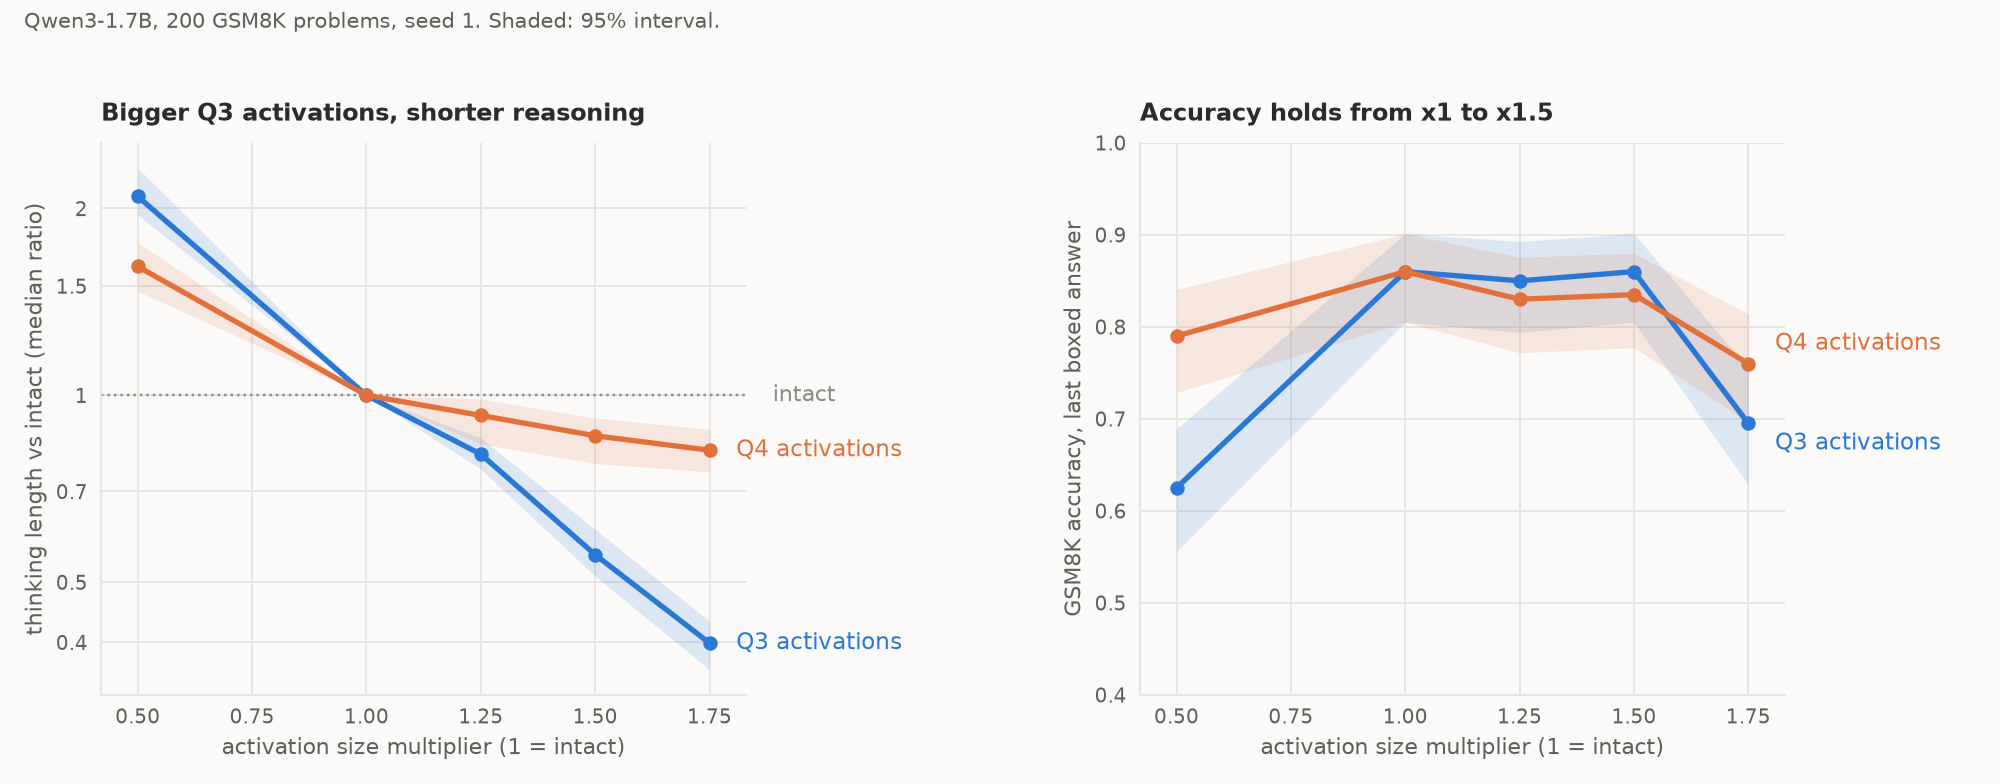
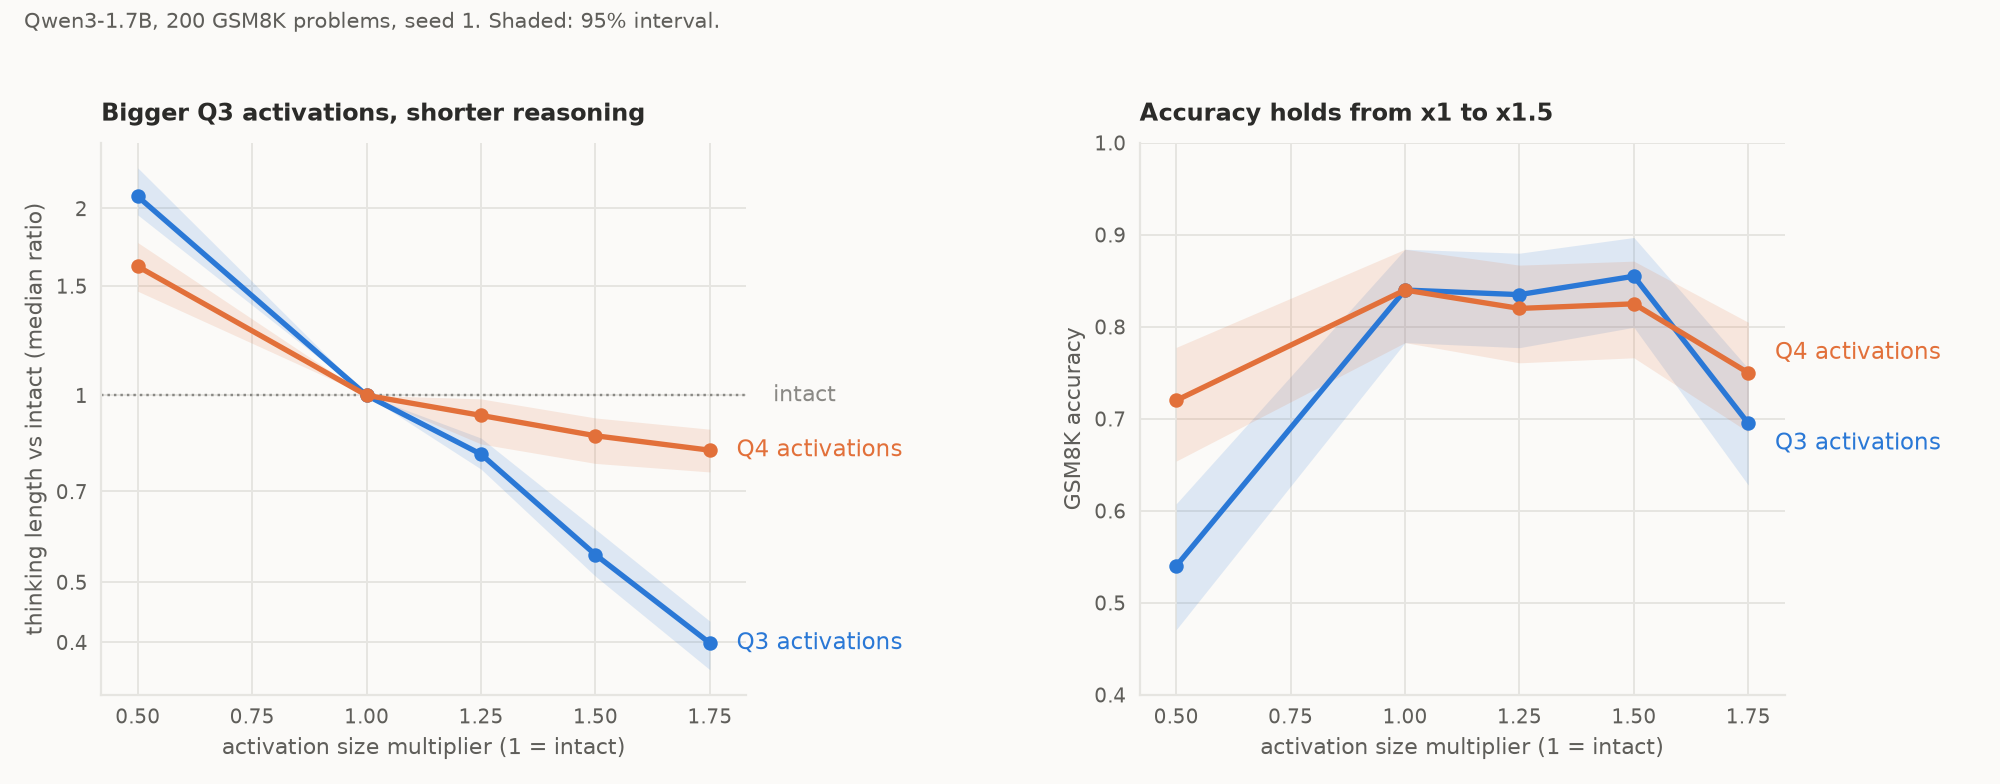
Revert "Figures 7 and 8: score accuracy on the last boxed answer anywhere in the output"
This reverts commit 6990c112237c8045482cbdf9a62eaa1595513cea.

diff --git a/src/figures/fig_ablation.py b/src/figures/fig_ablation.py
@@ -20,7 +20,6 @@ import matplotlib.pyplot as plt
 
 sys.path.insert(0, str(Path(__file__).resolve().parent))
 import style  # noqa: E402
-from scoring import last_boxed_correct  # noqa: E402
 
 style.apply()
 folder = Path(sys.argv[1] if len(sys.argv) > 1 else "results/q3__Qwen__Qwen3-1.7B")
@@ -57,7 +56,7 @@ fig, (a1, a2, a3) = plt.subplots(1, 3, figsize=(15.5, 5.4), gridspec_kw={"width_
 for gi, (xlabel, fill, seed) in enumerate(EDITS):
     base = load(f"none__seed{seed}")
     ids = sorted(base)
-    k = sum(last_boxed_correct(base[i]) for i in ids); lo, hi = wilson(k, len(ids))
+    k = sum(base[i]["correct"] for i in ids); lo, hi = wilson(k, len(ids))
     errbar(a2, gi - 0.3, k / len(ids), lo, hi, style.INTACT_COL)
     for quad, colour, _, dx in QUADS:
         run = load(f"{quad}_{fill}__seed{seed}")
@@ -69,12 +68,12 @@ for gi, (xlabel, fill, seed) in enumerate(EDITS):
         errbar(a1, gi + dx, med, rlo, rhi, colour)
         a1.annotate(f"×{med:.2f}", (gi + dx, rhi), xytext=(0, 7), textcoords="offset points",
                     ha="center", fontsize=9, color=style.INK2)
-        kk = sum(last_boxed_correct(run[i]) for i in ids); alo, ahi = wilson(kk, len(ids))
+        kk = sum(run[i]["correct"] for i in ids); alo, ahi = wilson(kk, len(ids))
         errbar(a2, gi + dx * 0.9 + 0.08, kk / len(ids), alo, ahi, colour)
-        lost = sum(last_boxed_correct(base[i]) and not last_boxed_correct(run[i]) for i in ids)
-        gained = sum(last_boxed_correct(run[i]) and not last_boxed_correct(base[i]) for i in ids)
+        lost = sum(base[i]["correct"] and not run[i]["correct"] for i in ids)
+        gained = sum(run[i]["correct"] and not base[i]["correct"] for i in ids)
         summary[f"{quad}_{fill}__seed{seed}"] = {
-            "n": len(ids), "length_ratio": med, "ci": [rlo, rhi], "accuracy": kk / len(ids), "accuracy_answer_section_only": sum(run[i]["correct"] for i in ids) / len(ids),
+            "n": len(ids), "length_ratio": med, "ci": [rlo, rhi], "accuracy": kk / len(ids),
             "intact_accuracy": k / len(ids), "lost": lost, "gained": gained,
             "median_thinking_tokens": float(np.median([run[i]["thinking_tokens"] for i in ids])),
             "cap_hits": float(np.mean([run[i]["total_tokens"] >= CAP for i in ids]))}
@@ -88,7 +87,7 @@ a1.annotate("intact", (len(EDITS) - 0.4, 1), xytext=(-4, 5), textcoords="offset 
 a1.set_ylim(0.9, 1.6)
 a1.set_ylabel("thinking length vs intact (median ratio)")
 a1.set_title("a  Partial ablation makes reasoning longer")
-a2.set_ylim(0.6, 1.0); a2.set_ylabel("GSM8K accuracy, last boxed answer")
+a2.set_ylim(0.6, 1.0); a2.set_ylabel("GSM8K accuracy")
 a2.set_title("b  Accuracy barely moves")
 handles = [plt.Line2D([], [], marker="o", ls="", color=c, ms=8, label=l)
            for c, l in ((style.INTACT_COL, "intact"), (style.Q3_COL, "Q3 activations"), (style.Q4_COL, "Q4 activations (control)"))]
@@ -109,7 +108,7 @@ for xi, (lab, run, colour) in enumerate(rows):
     a3.scatter(xi + rng.uniform(-0.2, 0.2, len(t)), t + 1, s=26, color=colour, alpha=0.6, linewidths=0, zorder=3)
     near0, capped = int((t <= 4).sum()), int((t >= CAP - 16).sum())  # capped = still thinking at the cap
     if lab != "intact":
-        acc = np.mean([last_boxed_correct(run[i]) for i in ids])
+        acc = np.mean([run[i]["correct"] for i in ids])
         a3.annotate(f"{near0} of {len(t)} skip\nthinking,\n{capped} of {len(t)} run\nto the cap\naccuracy {acc:.0%}",
                     (xi, 22), ha="center", va="center", fontsize=8.6, color=style.INK2)
         summary[name] = {"n": len(t), "near_zero": near0, "capped": capped, "accuracy": float(acc)}

diff --git a/src/figures/fig_gain_dose.py b/src/figures/fig_gain_dose.py
@@ -2,8 +2,7 @@
 
 Every Q3 (or Q4) firing is multiplied by a gain: shrink@0.5 = x0.5, none = x1,
 grow@0.25 = x1.25, and so on. Left: median per-problem thinking length relative
-to the intact model (bootstrap 95% band). Right: GSM8K accuracy scored on the last
-boxed answer anywhere in the output (Wilson 95% band); see scoring.py.
+to the intact model (bootstrap 95% band). Right: GSM8K accuracy (Wilson 95% band).
 
 Usage: python src/figures/fig_gain_dose.py [results/q3__Qwen__Qwen3-1.7B] [seed]
 Writes figures/fig7_gain_dose_response.png and gain_dose_summary__seed<k>.json.
@@ -17,7 +16,6 @@ import matplotlib.pyplot as plt
 
 sys.path.insert(0, str(Path(__file__).resolve().parent))
 import style  # noqa: E402
-from scoring import last_boxed_correct  # noqa: E402
 
 style.apply()
 folder = Path(sys.argv[1] if len(sys.argv) > 1 else "results/q3__Qwen__Qwen3-1.7B")
@@ -43,7 +41,7 @@ summary = {}
 fig, (a1, a2) = plt.subplots(1, 2, figsize=(12.5, 4.9))
 for quad, colour, dy in (("q3", style.Q3_COL, 0), ("q4", style.Q4_COL, 0)):
     xs, ratio, rlo, rhi, acc, alo, ahi = [1.0], [1.0], [1.0], [1.0], [], [], []
-    k = sum(last_boxed_correct(base[i]) for i in ids); lo, hi = wilson(k, len(ids))
+    k = sum(base[i]["correct"] for i in ids); lo, hi = wilson(k, len(ids))
     acc.append(k / len(ids)); alo.append(lo); ahi.append(hi)
     for g, fill in sorted(GAINS.items()):
         run = load(f"{quad}_{fill}")
@@ -51,11 +49,11 @@ for quad, colour, dy in (("q3", style.Q3_COL, 0), ("q4", style.Q4_COL, 0)):
             continue
         r = np.array([run[i]["thinking_tokens"] / max(1, base[i]["thinking_tokens"]) for i in ids])
         boots = [np.median(rng.choice(r, len(r))) for _ in range(2000)]
-        k = sum(last_boxed_correct(run[i]) for i in ids); lo, hi = wilson(k, len(ids))
+        k = sum(run[i]["correct"] for i in ids); lo, hi = wilson(k, len(ids))
         xs.append(g); ratio.append(float(np.median(r))); rlo.append(float(np.percentile(boots, 2.5)))
         rhi.append(float(np.percentile(boots, 97.5))); acc.append(k / len(ids)); alo.append(lo); ahi.append(hi)
         summary[f"{quad}_{fill}"] = {"gain": g, "length_ratio": ratio[-1], "ci": [rlo[-1], rhi[-1]],
-                                     "accuracy": acc[-1], "accuracy_answer_section_only": sum(run[i]["correct"] for i in ids) / len(ids), "cap_hits": float(np.mean([run[i]["total_tokens"] >= 4096 for i in ids]))}
+                                     "accuracy": acc[-1], "cap_hits": float(np.mean([run[i]["total_tokens"] >= 4096 for i in ids]))}
     o = np.argsort(xs); xs, ratio, rlo, rhi, acc, alo, ahi = (np.array(v)[o] for v in (xs, ratio, rlo, rhi, acc, alo, ahi))
     name = f"{quad.upper()} activations"
     style.line_with_band(a1, xs, ratio, rlo, rhi, colour, name)
@@ -66,7 +64,7 @@ a1.set_yticklabels(["0.4", "0.5", "0.7", "1", "1.5", "2"]); a1.minorticks_off()
 style.reference_line(a1, 1, "intact", 1.83)
 a1.set_ylabel("thinking length vs intact (median ratio)")
 a1.set_title("Bigger Q3 activations, shorter reasoning")
-a2.set_ylabel("GSM8K accuracy, last boxed answer"); a2.set_ylim(0.4, 1.0)
+a2.set_ylabel("GSM8K accuracy"); a2.set_ylim(0.4, 1.0)
 a2.set_title("Accuracy holds from x1 to x1.5")
 for ax in (a1, a2):
     ax.set_xlabel("activation size multiplier (1 = intact)")
